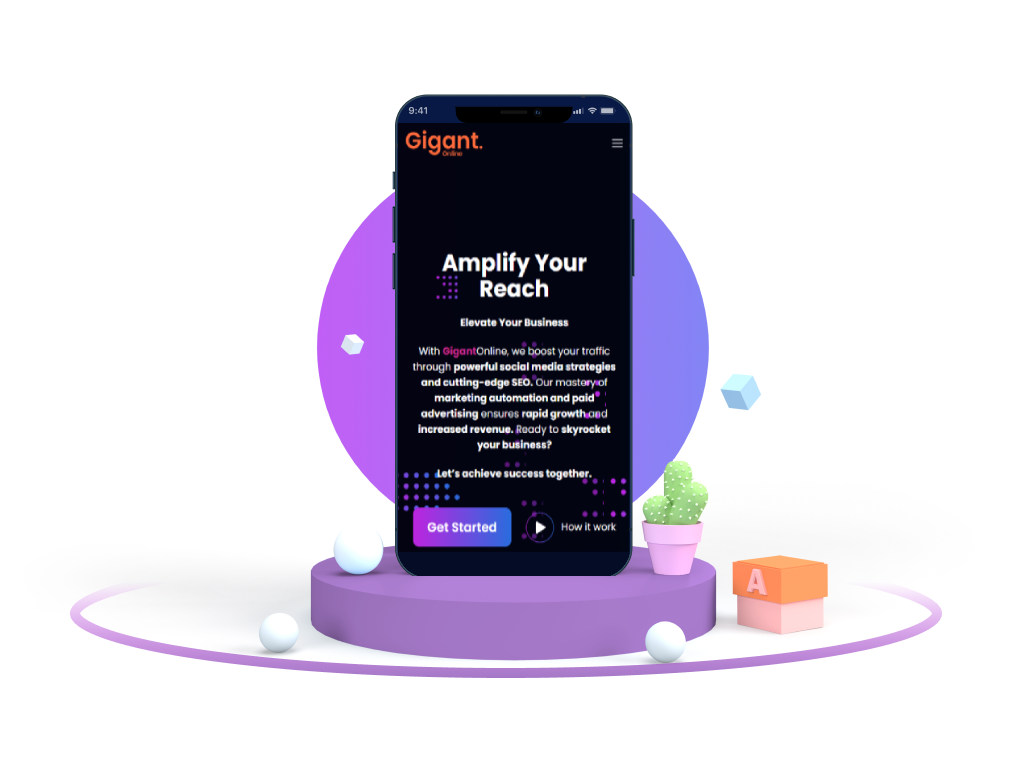
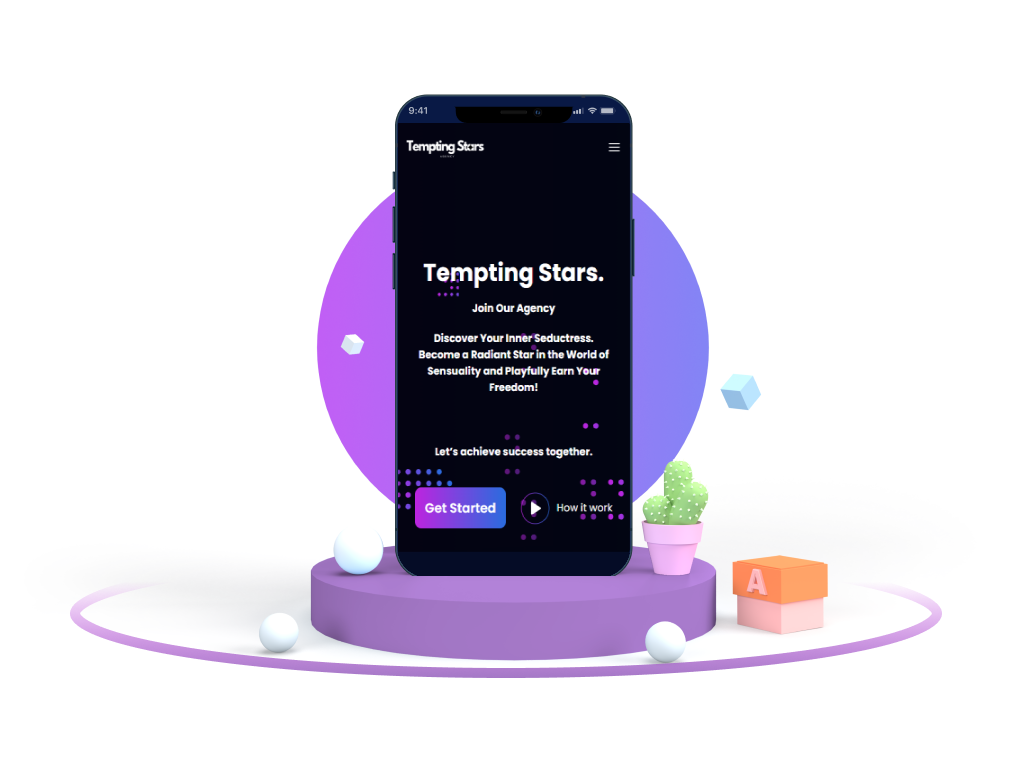
Tempting Stars

Changed region(s): [[0.3974, 0.3329, 0.642, 0.7263], [0.3974, 0.1513, 0.4892, 0.2118], [0.5809, 0.1816, 0.6114, 0.2118]]

diff --git a/app/components/Work/index.tsx b/app/components/Work/index.tsx
@@ -12,21 +12,21 @@ interface workdata {
 const workdata: workdata[] = [
     {
         imgSrc: '/images/Work/content.svg',
-        heading: 'Content',
-        subheading: 'Dreaming of a website that wows? From the drawing board to maintenance',
-        hiddenpara: ', we\'re your go-to team for sites that impress and perform.',
+        heading: 'Advanced Content Strategy',
+        subheading: 'We offer full support in marketing and promotion for your unique content.',
+        hiddenpara: 'A thoughtful and tailored content strategy is essential for your success.',
     },
     {
         imgSrc: '/images/Work/website.svg',
-        heading: 'Website',
-        subheading: 'A website without content is like a party without music.',
-        hiddenpara: ' Let\'s fill your site with catchy text, stunning images, and videos that stick.',
+        heading: 'Active Account Growth',
+        subheading: 'Loyal followers are the core of your success. We are committed to steadily',
+        hiddenpara: ' growing your fanbase by attracting new followers to your account every day.',
     },
     {
         imgSrc: '/images/Work/marketing.svg',
-        heading: 'Marketing',
-        subheading: 'Ready to boost your online presence?',
-        hiddenpara: ' Dive into our SEO, SEA, and social media strategies to make your brand pop.',
+        heading: 'Full Account Management',
+        subheading: 'Leave the management of your exclusive social media channels to us.',
+        hiddenpara: ' This way, you can fully focus on creating engaging content for your fans while we take care of the rest.',
     },
 
 ]
@@ -38,7 +38,7 @@ const Work = () => {
                 <div className="radial-bgone hidden lg:block"></div>
                 <div className='text-center mb-14'>
                     <h3 className='text-offwhite text-3xl md:text-5xl font-bold mb-3'>How it work</h3>
-                    <p className='text-bluish md:text-lg font-normal leading-8'><b>51.</b>&nbsp;&nbsp;&nbsp;GROWING BUSINESSES<br/><b>250<span className='text-red'>%</span></b>&nbsp;&nbsp;&nbsp;MORE TRAFFIC</p>
+                    <p className='text-bluish text-2xl md:text-3xl font-normal leading-8'><b>21<span className='text-red'>.</span></b>&nbsp;&nbsp;&nbsp;MODELS<br/><b>4000<span className='text-red'>+</span></b>&nbsp;&nbsp;&nbsp;FANS</p>
                 </div>
 
                 <div className='grid md:grid-cols-2 lg:grid-cols-3 gap-y-20 gap-x-5 mt-32'>
@@ -51,7 +51,7 @@ const Work = () => {
                             <div>
                                 <Image src={'/images/Work/bg-arrow.svg'} alt="arrow-bg" width={85} height={35} />
                             </div>
-                            <h3 className='text-2xl text-offwhite font-semibold text-center mt-5'>{items.heading}</h3>
+                            <h3 className='text-1xl md:text-2xl text-offwhite font-semibold text-center mt-5'>{items.heading}</h3>
                             <p className='text-base font-normal text-bluish text-center mt-2'>{items.subheading}</p>
                             <span className="text-base font-normal m-0 text-bluish text-center hides">{items.hiddenpara}</span>
                         </div>

diff --git a/app/components/Footer/index.tsx b/app/components/Footer/index.tsx
@@ -43,7 +43,14 @@ const footer = () => {
               src={'/images/Logo/logo.png'}
               alt="Crypto-Logo"
             />
-            <h3 className='text-lightblue text-sm font-bold leading-9 mb-4 lg:mb-16'>Unlock your brand's potential with GigantOnline. Our expertise in marketing automation, web development, custom software, SEO, and targeted advertising on major platforms ensures you get solutions that deliver real results. Partner with us to streamline your digital strategy and drive exceptional growth.</h3>
+            <h3 className="text-white text-xl font-medium">About Us</h3>
+            <h3 className='text-lightblue text-sm font-bold leading-9 mb-1 lg:mb-1'>Increase your revenue and expand your fanbase by leveraging our specialized Content Strategy and Account Management. We collaborate with you to develop a robust strategy and handle all the details, allowing you to focus entirely on creating great content.</h3>
+            <div className="col-span-4 ">
+              <h4 className="text-lightblue text-sm font-bold mb-6 flex gap-2">&nbsp;&nbsp;&nbsp;&nbsp;&nbsp;&nbsp;- Account Management</h4>
+              <h4 className="text-lightblue text-sm font-bold mb-6 flex gap-2">&nbsp;&nbsp;&nbsp;&nbsp;&nbsp;&nbsp;- Collaborate with other Creators</h4>
+              <h4 className="text-lightblue text-sm font-bold mb-6 flex gap-2">&nbsp;&nbsp;&nbsp;&nbsp;&nbsp;&nbsp;- Advanced Content Strategy</h4>
+              <h4 className="text-lightblue text-sm font-bold mb-6 flex gap-2">&nbsp;&nbsp;&nbsp;&nbsp;&nbsp;&nbsp;- 24/7 Service</h4>
+            </div>
             <div className='flex gap-4'>
               {socialLinks.map((items, i) => (
                 <Link href={items.href} key={i}><img src={items.imgsrc} alt={items.imgsrc} className='footer-icons' width="30px" height="30px" /></Link>
@@ -79,7 +86,7 @@ const footer = () => {
       {/* All Rights Reserved */}
 
       <div className='py-8 px-4 border-t border-t-lightblue'>
-        <h3 className='text-center text-offwhite'>Copyright ©2018-2024 Gigantonline. All Rights Reserved</h3>
+        <h3 className='text-center text-offwhite'>Copyright ©2018-2024 Tempting Stars. All Rights Reserved</h3>
       </div>
 
     </div>

diff --git a/app/components/Banner/index.tsx b/app/components/Banner/index.tsx
@@ -20,15 +20,15 @@ const Banner = () => {
                         <div className='arrowTwo'></div>
                         <div className='col-span-7'>
                             <h1 className="text-4xl lg:text-5xl font-bold mb-5 text-white md:4px md:text-start text-center">
-                                Amplify Your Reach
+                                Tempting Stars.
                             </h1>
                             <h1 className="text-1xl lg:text-3xl font-bold mb-5 text-white md:4px md:text-start text-center">
-                                Elevate Your Business
+                                Join Our Agency
                             </h1>
-                            <p className='text-white md:text-lg font-normal mb-5 md:text-start text-center'>With <b className='text-red'>Gigant</b>Online, we boost your traffic through <b>powerful social media strategies and cutting-edge SEO.</b> Our mastery of <b>marketing automation and paid advertising</b> ensures <b>rapid growth</b> and <b>increased revenue.</b> Ready to <b>skyrocket your business?</b></p>
+                            <p className='text-white md:text-lg font-normal mb-10 md:text-start text-center'><b>Discover Your Inner Seductress. Become a Radiant Star in the World of Sensuality and Playfully Earn Your Freedom!</b></p>
                             <p className='text-white md:text-lg font-normal mb-10 md:text-start text-center'><b>Let’s achieve success together.</b></p>
                             <div className='flex align-middle justify-center md:justify-start'>
-                                <a href='#chat-section' className='text-xl font-semibold text-white py-4 px-6 lg:px-12 navbutton mr-6'>Get Started</a>
+                                <a href='#chat-section' className='text-xl font-semibold text-white py-4 px-4 lg:px-12 navbutton mr-6'>Get Started</a>
                                 <button onClick={() => setOpen(true)} className='bg-transparent flex justify-center items-center text-white'><Image src={'/images/Banner/playbutton.svg'} alt="button-image" className='mr-3' width={47} height={47} />How it work</button>
                             </div>
                         </div>

diff --git a/app/components/Features/index.tsx b/app/components/Features/index.tsx
@@ -9,22 +9,16 @@ interface featuresdata {
 
 const featuresdata: featuresdata[] = [
     {
-        imgSrc: '/images/Features/featureOne.svg',
-        heading: 'Visibility & Conversion',
-        shortheading: 'Boost Engagement',
-        subheading: 'Elevate your brand to the top of search engine results, ensuring visibility to the right audience. Our strategies enhance your site\'s conversion rate, turning visitors into customers and maximizing online sales.',
-    },
-    {
         imgSrc: '/images/Features/featureTwo.svg',
-        heading: 'Lead & Sales',
-        shortheading: 'Convert & Grow',
-        subheading: 'Turn visitors into valuable leads, effectively amplifying your sales. Our targeted approach optimizes conversion tactics, making each interaction a strategic step towards significant business growth.',
+        heading: 'Seduce and Shine,',
+        shortheading: 'Be your own boss!',
+        subheading: 'By creating exclusive content, you open the door to a world of subscriptions and build a stable stream of passive income. This means financial freedom, where you earn while you sleep, travel, or develop new projects. Free yourself from the traditional 9-to-5 routine and enjoy the security and flexibility that come with a successful content career.',
     },
     {
         imgSrc: '/images/Features/featureThree.svg',
-        heading: 'Marketing Automation',
-        shortheading: 'Social Media Growth',
-        subheading: 'Unify visibility, conversion, and lead generation to dominate your online presence. Our comprehensive marketing solutions are designed to attract and retain customers, ensuring a constant growth.',
+        heading: 'Social Media Strategy',
+        shortheading: 'Following, Followers',
+        subheading: 'Organic account growth on social media involves attracting followers through high-quality content and active engagement without using paid ads. By consistently posting relevant content and interacting with your audience, you can build a loyal and engaged following over time.',
     },
 ]
 

diff --git a/app/components/Simple/index.tsx b/app/components/Simple/index.tsx
@@ -20,7 +20,7 @@ const Simple = () => {
             <div className="mx-auto max-w-5xl py-24 px-6">
                 <h3 className="text-center text-offwhite text-3xl lg:text-5xl font-semibold mb-6">Ready to Boost Your Brand?</h3>
                 <h6 className="text-center text-offwhite text-1xl lg:text-3xl font-semibold mb-6">Let’s Chat and Plan Your Next Move</h6>
-                <p className="text-center text-bluish text-lg font-normal mb-8">Got questions or excited to get started? Drop us a message using the form on the right or book a call directly through our Calendly. We’re here to help you make great things happen!</p>
+                <p className="text-center text-bluish text-lg font-normal mb-8">Got questions or excited to get started? Drop us a message using the form or book a call directly through our Calendly. We’re here to help you make great things happen!</p>
                 <div className="flex justify-center ">
                     <button id="calendly-widget">
                         <PopupWidget

diff --git a/app/components/Navbar/Navbar.tsx b/app/components/Navbar/Navbar.tsx
@@ -40,12 +40,12 @@ const Navbar = () => {
                                 <img
                                     className="block h-10 w-20px lg:hidden"
                                     src={'/images/Logo/logo.png'}
-                                    alt="Gigantonline"
+                                    alt="Tempting Stars"
                                 />
                                 <img
-                                    className="hidden h-10 w-12px md:block lg:block"
+                                    className="hidden h-20 w-12px md:block lg:block"
                                     src={'/images/Logo/logo.png'}
-                                    alt="Gigantonline"
+                                    alt="Tempting Stars"
                                 />
                             </div>
 

diff --git a/app/components/Faq/index.tsx b/app/components/Faq/index.tsx
@@ -10,11 +10,11 @@ interface faqdata {
 
 const faqdata: faqdata[] = [
     {
-        heading: "1. What is Gigantonline",
-        subheading: 'Gigant & Online is...'
+        heading: "1. What is Tempting Stars?",
+        subheading: 'Tempting Stars is...'
     },
     {
-        heading: "2. How can I ... from Gigantonline?",
+        heading: "2. How can I ... from Tempting Stars?",
         subheading: 'You can...'
     }
 ]

diff --git a/app/layout.tsx b/app/layout.tsx
@@ -5,8 +5,8 @@ import Footer from './components/Footer/index';
 
 
 export const metadata = {
-  title: 'Gigantonline',
-  description: 'Amplify Your Reach',
+  title: 'Tempting Stars',
+  description: 'Tempting Stars',
   icons: {
     icon: '/favicon.ico',
   },
